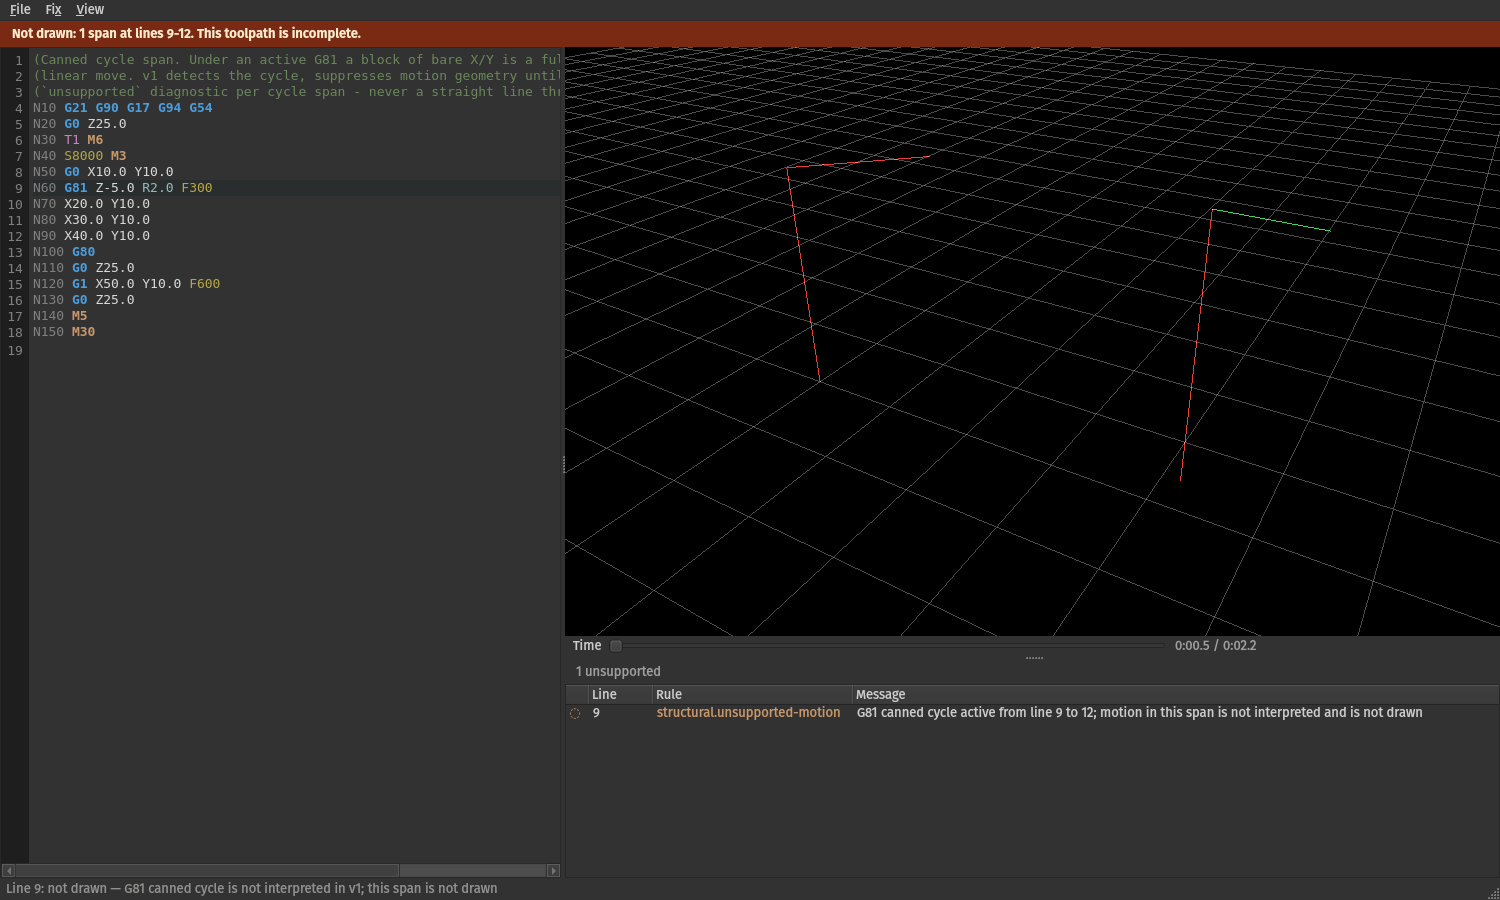
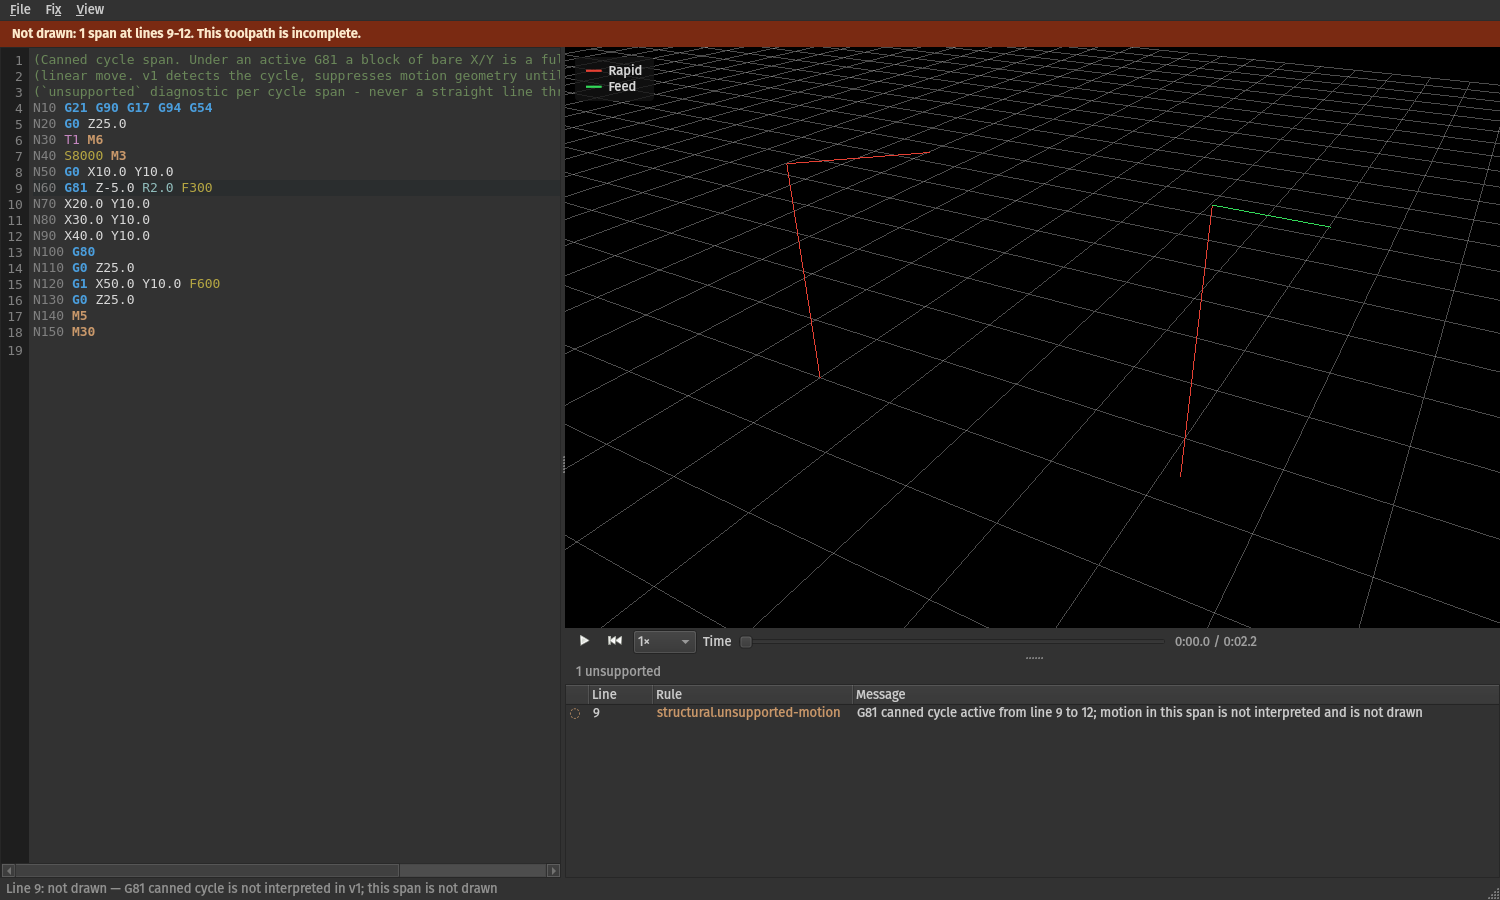
Updated readme

diff --git a/scripts/screenshots.py b/scripts/screenshots.py
@@ -25,6 +25,21 @@ G0 Z25
 M30
 """
 
+# Cut against `profiles/rotary.toml`, which is the only shipped profile carrying both a [stock] blank
+# and a [tool] cutter — the solid view refuses to invent either. Z is radial and measured from the
+# blank's surface there, so Z-9 is a 4.4 mm deep groove in a 42.8 mm bar.
+GROOVE = """(A wrapped helical groove, for the solid view. Cut with profiles/rotary.toml.)
+G21 G90 G94 G54
+S18000 M3
+G0 Z10
+G0 X0 Y10 A0
+G1 Z-9.0 F800
+G1 Y120.0 A1080.0
+G0 Z10
+M5
+M30
+"""
+
 
 def capture(window, name: str, app) -> None:
     for _ in range(6):
@@ -69,7 +84,34 @@ def main() -> int:
     window.viewport.setCameraPosition(distance=190, elevation=22, azimuth=-58)
     capture(window, "part-coordinates", app)
 
-    # 3. The diff preview for a fix.
+    # 3. The solid view: what the program leaves behind, rather than where the tool went. Needs a
+    # profile with both [stock] and [tool]; switching it on flips `Part coordinates` by itself,
+    # because a cylinder's carve is only stationary in the part's frame.
+    # The profile is swapped through the same path `Apply` in the profile dialog takes, rather than by
+    # opening a second window: two GL contexts in one process leave the first window's line items
+    # undrawable, so the toolpath over the solid would silently go missing.
+    from foursight.machine.profile_doc import ProfileDocument
+
+    rotary_text = (REPO / "profiles" / "rotary.toml").read_text(encoding="utf-8")
+    window._profile_dialog = None
+    # Cleared first: applying a profile under a live `Part coordinates` raises out of
+    # `_on_part_coordinates_toggled`, because the reload clears the toggle before the timeline has
+    # caught up with the new store. Steered around here rather than papered over — it is a real defect.
+    window.part_coordinates_action.setChecked(False)
+    window._on_profile_applied(ProfileDocument.from_text(rotary_text))
+    settle(window)
+    groove = REPO / "build" / "groove-demo.nc"
+    groove.write_text(GROOVE, encoding="utf-8")
+    window.open_file(groove)
+    settle(window)
+    window.solid_action.setChecked(True)
+    carved = QDeadlineTimer(120_000)
+    while window._carver is not None and not carved.hasExpired():
+        app.processEvents(QEventLoop.AllEvents, 20)
+    window.viewport.setCameraPosition(distance=190, elevation=24, azimuth=-62)
+    capture(window, "solid-view", app)
+
+    # 4. The diff preview for a fix.
     from foursight.fix.engine import FixContext, apply_fix, get_fix, load_builtin_fixes
     from foursight.gui.diff_dialog import DiffDialog
 

diff --git a/README.md b/README.md
@@ -1,12 +1,12 @@
 # FourSight
 
-A 4-axis G-code previewer and verifier. It draws the toolpath, checks the program against a machine
-profile, and offers fixes — with one governing rule:
+A 4-axis G-code previewer and verifier. It draws the toolpath, carves the blank, checks the program
+against a machine profile, and offers fixes — with one governing rule:
 
 > **Never render a confidently wrong toolpath.** A previewer that refuses to draw is recoverable; one that
 > draws the wrong path is worse than no previewer.
 
-![The main window: code, toolpath, timeline and diagnostics](docs/images/overview.png)
+![The main window: code, toolpath, legend, transport and diagnostics](docs/images/overview.png)
 
 That screenshot is the rule in action. The program contains a `G81` drill cycle, which FourSight does not
 interpret — so the span is **not drawn at all**, there is a gap in the toolpath where the holes would be,
@@ -50,6 +50,13 @@ foursight check part.nc                  # verify, exit 1 if errors were found
 foursight parse part.nc                  # dump the parsed blocks
 ```
 
+Both `check` and `parse` take `--profile`, `--dialect`, `--arc-centre` and `--block-delete`; `foursight-gui`
+takes all four as well, and its file argument is optional. `check` adds `--no-simulate`, which tests block
+endpoints only — faster on a very large file, but blind to an arc that bulges past a travel limit mid-sweep.
+`parse` adds `--modal`, which dumps each block's resolved modal snapshot alongside it.
+Block delete (`/`) **executes** by default, matching the common control-panel default; `--block-delete`
+skips those blocks instead.
+
 `foursight check` is built for a pipeline: diagnostics go to stdout in compiler format
 (`file:line: severity [rule] message`), tool problems go to stderr, and the exit code is **0** clean,
 **1** errors found, **2** could not run. `unsupported` and `warning` do not fail a run — failing on
@@ -69,6 +76,68 @@ The CLI needs no Qt. That is enforced by a CI job that installs without the `[gu
 An unrecognized code that never touches position is a warning. One that changes how later motion is
 interpreted is `unsupported`. Under an active `G81`, a block containing only `X10 Y10` is a drill cycle,
 not a linear move — and that difference is the whole reason the middle tier exists.
+
+There are **29 rules**: 6 structural, 17 process, 6 geometry. `PLAN.md` § Verifier Rules lists every one.
+
+## Reading the picture
+
+The viewport distinguishes everything it draws by **colour alone**, and not by preference: pyqtgraph's
+`GLLinePlotItem` has no dash or stipple parameter, and `glLineWidth` is inert on core OpenGL profiles. So
+the **legend is the second channel** — it supplies the names, and it is on by default, because rapid-red
+against feed-green is exactly the distinction that collapses for the commonest colour blindness. It reads
+its rows off the batches that were handed to GL rather than restating the palette, and it lists only what
+is actually on screen: a program with no cutter-compensated span gets no `unverified` row, because the row
+*appearing* is the information.
+
+| | Shortcut | |
+|---|---|---|
+| Fit to program | `Ctrl+0` | |
+| Play / pause | `Ctrl+Space` | not bare Space — the editor holds the focus and Space must still type a space |
+| Legend | `Ctrl+L` | on by default |
+| Part coordinates | `Ctrl+P` | the path as it lies on the part (table mount) or the tool tip (head mount) |
+| Solid view | `Ctrl+D` | |
+| Toolpath | `Ctrl+T` | independent of the solid, deliberately |
+| Machine profile… | `Ctrl+M` | |
+
+Left-drag orbits, the wheel zooms, and panning is on **Shift+left-drag, right-drag and middle-drag** — a
+middle button is what a trackpad does not have. Every pan works in the camera plane rather than pyqtgraph's
+`view-upright`, which foreshortens the vertical to about half at the default elevation and reads as the view
+resisting the hand.
+
+**Clicking a segment jumps to its line, and clicking a line highlights its segments.** One pixel separates a
+click from a camera move, in both directions: below the threshold the camera does not move at all (`GLViewWidget`
+orbits a degree per pixel, so a two-pixel tremor would make the release miss what the user aimed at), and above
+it the release picks nothing, or every orbit would select whatever it left under the cursor.
+
+**Putting the cursor on a line parks the play head at the start of that line's first move**, so selecting a
+block and pressing `Ctrl+Space` runs it. Playback advances 1×, 10×, 100× or 1000× program-seconds per
+wall-second and keeps reporting program time; the multiplier survives the reload that every applied fix causes.
+A line with no geometry leaves the position alone and the status bar says why — "no motion", or "not drawn" for
+a suppressed span — rather than starting somewhere the user did not click.
+
+### The solid view
+
+`View → Solid view` (Ctrl+D) carves the `[stock]` blank with the `[tool]` cutter and shades the result, so the
+question "what does this program leave behind" gets an answer without a material-removal simulator.
+
+![A wrapped helical groove, carved into the blank](docs/images/solid-view.png)
+
+It is a **display** heightfield and nothing in `verify/` reads it or `[tool]`. That narrowing is deliberate
+rather than temporary: every rule judges the programmed centreline, and giving the cutter a width would
+silently change what several of them mean. The model also states its own limits, on the picture rather than in
+a document nobody has open — it **cannot represent an undercut** (one height per cell), it carves with **one
+cutter** (there is no tool table), and it **does not carve untrusted spans**, so a cutter-compensated span
+leaves *more* material than reality, which is the recoverable direction. Each of those reaches the legend's
+solid row when it applies.
+
+The stock shape decides the frame, not the user. A box is a top-down Z map in machine coordinates and is
+**refused** once a table-mounted program moves A; a cylinder is a radial map in part coordinates, which is
+stationary under rotation. So switching the solid on flips `Part coordinates` to match, and changing the frame
+by hand under a live solid switches the solid off. Drawing the carve in the other frame is not a rougher
+picture — it is a picture of somewhere the part is not.
+
+The toolpath and the solid are **independent** toggles. Lines over a solid is the useful combination for asking
+*which move left that mark*, and lines alone is what the application has always been.
 
 ## Fixes refuse when the intent is ambiguous
 
@@ -102,7 +171,8 @@ no `pivot_to_tip` refuses to show part coordinates rather than inventing a tool 
 foursight check part.nc --profile my-mill.toml
 ```
 
-See `src/foursight/profiles/default_4axis.toml`, which documents every field inline.
+See `src/foursight/profiles/default_4axis.toml`, which documents every field inline, and
+`profiles/rotary.toml`, which is a real wrapped-rotary machine written up with the reasoning for each value.
 
 ### Editing the profile in the app
 
@@ -152,7 +222,9 @@ judged instead of per-rapid findings. An off-axis cylinder would have the same p
 cannot be expressed.
 
 Both are unset by default, because neither has an honest generic value: a sane plunge rate belongs to the
-tool and the material, and no shipped profile knows what is clamped to your table today.
+tool and the material, and no shipped profile knows what is clamped to your table today. `[stock]` also
+feeds the solid view, together with `[tool]` — which is the cutter the carve uses and nothing else, read by
+no verifier rule.
 
 What they catch and what they do not is worth being precise about:
 
@@ -173,10 +245,13 @@ What they catch and what they do not is worth being precise about:
 
 ### Dialect
 
-LinuxCNC is normative. Mach3 is selectable, because two of its behaviours are **controller
-configuration** rather than G-code — nothing in the file can tell us which way they are set, and
-guessing wrong at the arc-centre mode draws every unqualified arc in the program in the wrong place
-with no diagnostic at all.
+LinuxCNC is normative, and its documented deviations from Fanuc are listed in `PLAN.md` § Dialect
+Divergences — `G4 P` in seconds rather than milliseconds, `%`/`Oxxxx` framing consumed silently, `;`
+comments accepted.
+
+Mach3 is selectable, because two of its behaviours are **controller configuration** rather than G-code —
+nothing in the file can tell us which way they are set, and guessing wrong at the arc-centre mode draws
+every unqualified arc in the program in the wrong place with no diagnostic at all.
 
 ```toml
 [dialect]
@@ -194,6 +269,30 @@ Mach3-specific codes FourSight cannot interpret — `G68`/`G69` rotation, `G51`/
 `G16`/`G15` polar, `M98`/`M99` subprogram calls — are reported as `unsupported` and **not drawn**,
 rather than being assumed inert and drawn as if absent.
 
+## Two rules judge the control, not the program
+
+Both were found the expensive way — on a real Mach3 machine, on the same wrapped-rotary job, by looking at
+the workpiece. Both report a hazard that is **not in the G-code**, so both are permanently warnings: the
+rule says the corner is there, the machine decides what to do with it. Their remedies do not overlap, which
+is the whole reason they are two rules.
+
+- **`process.rotary-rapid-before-plunge`** — a `G0` whose duration is set by the rotary axis, with a plunge
+  on the next moving block. The commanded path is safe: Z is at clearance throughout, every limit holds, and
+  the viewport draws it correctly. Under constant-velocity blending (Mach3 CV, LinuxCNC `G64`) the control
+  rounds the corner and starts the descent before the rotation finishes, cutting a groove around the part
+  that appears nowhere in the program. A dwell or `G61` fixes it. "Rotary-dominated" is a ratio of **times**
+  from each axis's `max_rapid`, never of degrees — a degree threshold fires on a fast A axis and stays silent
+  on a slow one, which is backwards.
+- **`process.rotary-rapid-short-rotates`** — a `G0` past a half turn on a control set to take the shorter way
+  round (Mach3's "Ang Short Rot on G0"). It stops a **full turn** from the commanded angle and reports that as
+  its position, so the next absolute block makes the turn up — and if it is cutting, it cuts a complete circle
+  around the part. No dwell, M-code or `G61` helps: the axis is physically in the wrong place. Declare it with
+  `[axes.a].short_rotate`, which requires `wrap` on the same axis and is refused otherwise; undeclared, the
+  rule is off, because the setting appears nowhere in the file.
+
+`G61` was applied to the real job, removed the groove *inside* each profile, and left the one *between*
+profiles exactly as it was — which is what these being one rule would have cost.
+
 ## Performance
 
 Measured on an Intel Iris Xe / Mesa 25.1.5 baseline:
@@ -206,28 +305,39 @@ Measured on an Intel Iris Xe / Mesa 25.1.5 baseline:
 | Orbit, 500k segments | 241 fps | worst frame 10.7 ms, against 30 fps |
 | Geometry + GL buffers, 500k segments | 50.5 MB | 38.5 MB store + 12.0 MB GL |
 | Click → segment, 500k segments | 27 ms | projection cached per camera change |
+| Solid carve | 61 ms / 0.95 s | 200-pass raster / 40k cutting segments |
 
 That 4% margin is thin and it is honest: the number was 4.46 s before the editor pane existed, and the
 editor's `setPlainText` costs 1.23 s on a 100k-line file. The next feature touching the load path will break
 it. `PLAN.md` § Timing fast path records what was already reclaimed and what levers remain.
 
+The carve is two passes and the erosion is the algorithm: rasterise tool-axis positions (cost ∝ path length),
+then erode once by the cutter's bottom (cost ∝ grid size, independent of program size). A per-segment sweep
+would be 450M cell updates at 500k segments — the wrong algorithm, not a slow one. Grid resolution is derived
+rather than fixed, because the kernel grows with the square of the tool radius *in cells*, and a 90 mm face
+mill on a fixed grid builds a 125,000-offset kernel and hangs.
+
 Loading runs off the GUI thread and is cancellable; a cancelled load leaves the previous toolpath on
 screen rather than a partial one, because half a program is not a program.
-
-## Dialect
-
-LinuxCNC is normative. Documented deviations from Fanuc are listed in `PLAN.md` § Dialect Divergences —
-`G4 P` in seconds rather than milliseconds, `%`/`Oxxxx` framing consumed silently, `;` comments accepted.
-Block delete (`/`) executes by default, matching the common control-panel default, with a toggle.
 
 ## Development
 
 ```bash
 .venv/bin/pip install -e ".[dev,gui]"
-.venv/bin/pytest -q                                        # 1157 tests, ~30 s
+.venv/bin/pytest -q --ignore=tests/test_dialect.py         # 1728, ~40 s   ] see below:
+.venv/bin/pytest -q tests/test_dialect.py                  # 43, <1 s      ] two runs, not one
 .venv/bin/ruff check --fix . && .venv/bin/ruff format .
 .venv/bin/python scripts/build.py                          # PyInstaller one-dir bundle
+DISPLAY=:0 .venv/bin/python scripts/screenshots.py         # regenerate the images above
 ```
+
+**The 1771 tests do not currently run in one process.** `pytest -q` segfaults at
+`test_editor.py::test_loading_a_program_shows_the_parsed_text`: the main thread garbage-collects while a
+background `ProgramLoader` QThread is mid-parse, and PySide6 destroys Qt objects under it. Every test passes
+in the two-part run above. `tests/test_dialect.py` is only the *trigger* — it contains no Qt and no threads,
+and merely shifts when a large collection lands. `TASKS.md` § M6 has the evidence and what has been ruled
+out. **Do not read a green `--ignore` run as a green suite**, and note that the CI matrix still invokes
+`pytest -q -rs` in one process, so it will fail as configured.
 
 `PLAN.md` is the design record and owns every architectural decision, with the reasoning for each.
 `TASKS.md` is the execution log. When the two disagree, PLAN.md wins.
@@ -240,11 +350,19 @@ mirrored wrap.
 
 ## Status
 
-M0–M5 complete. Known gaps, all deliberate and recorded in `PLAN.md`:
+M0–M15 complete. Known gaps, all deliberate and recorded in `PLAN.md`:
 
 - **No tool table**, so `G43`/`G44` tool length is not modelled. The path's shape is correct and its Z datum
   is shifted; the program is drawn and flagged `unsupported`, because refusing every program that uses G43
-  would make the previewer useless.
-- **No stock model**, so rotary step sizing uses the path's radius as a proxy for the part's.
-- **No cutter-compensation geometry.** The programmed centreline is drawn and marked unverified.
-- Windows bundles are built in CI but have not been launched on a clean Windows VM.
+  would make the previewer useless. The solid view inherits it: one cutter carves the whole program, and the
+  legend says so.
+- **No material-removal model in the verifier.** `[stock]` is an envelope and the solid view is a display
+  heightfield; neither tells a rule what is left of the blank, so a cutting move through uncut material is
+  not reported. Rotary step sizing likewise uses the path's own radius as a proxy for the part's.
+- **No cutter-compensation geometry.** The programmed centreline is drawn and marked unverified, and it is
+  not carved.
+- Windows bundles are built in CI but have not been launched on a clean Windows VM, and `--windowed` has
+  never been exercised.
+- The full test suite does not run in one process — see Development above.
+- Applying a machine profile while `Part coordinates` is on raises out of the toggle handler, because the
+  reload clears the toggle before the timeline has caught up with the new store. Switch it off first.

diff --git a/CLAUDE.md b/CLAUDE.md
@@ -13,11 +13,27 @@ PyInstaller bundle on a clean Windows VM, which needs a VM — and `--windowed` 
 **The full suite currently cannot be run in one process.** `pytest -q` segfaults at
 `test_editor.py::test_loading_a_program_shows_the_parsed_text`; the main thread garbage-collects
 while a background `ProgramLoader` QThread is mid-parse, and PySide6 destroys Qt objects under it.
-Every test passes — run `pytest --ignore=tests/test_dialect.py` (1709) and `pytest
+Every test passes — run `pytest --ignore=tests/test_dialect.py` (1728, ~40 s) and `pytest
 tests/test_dialect.py` (43) and both are green. `tests/test_dialect.py` is only the *trigger*: it
 contains no Qt and no threads and merely shifts when a large collection lands. See `TASKS.md`
 § M6 for the full evidence and what has already been ruled out. **Run the suite in those two parts
 until it is fixed**, and do not read a green `--ignore` run as a green suite.
+
+**Open defect, found while regenerating the README screenshots: applying a machine profile while
+`Part coordinates` is on raises out of `_on_part_coordinates_toggled`.** Sequence: open a program,
+`Ctrl+P`, then `File → Machine profile…` → Apply a profile whose kinematics change the segment count.
+`_reload_from_buffer` clears the part-coordinates toggle before the timeline has caught up with the
+new store, and `playback.marker_point` refuses the mismatch it is given —
+`ValueError: timeline has 504 segments, store has 465 — they describe different programs`. The guard
+is right; the ordering is not. It surfaces on stderr and Qt swallows it, so the user sees only a marker
+that stopped updating. No test covers the sequence, and `scripts/screenshots.py` steers around it.
+
+`scripts/screenshots.py` regenerates `docs/images/` for the README (`DISPLAY=:0
+.venv/bin/python scripts/screenshots.py`). Refresh it after any visible UI change — a README picturing
+a version of the tool that no longer exists is confidently wrong about what the user will see. It
+drives **one** `MainWindow` throughout and swaps profiles through `_on_profile_applied`: a second GL
+context in the same process leaves the first window's line items undrawable, so a toolpath silently
+goes missing from the image with nothing but `Error while drawing item` on stderr.
 
 `PLAN.md` remains the single source of truth for the design: architecture, tech stack, G-code subset,
 verifier rules, milestones, and the reasoning behind every decision including the ones that were reversed.
